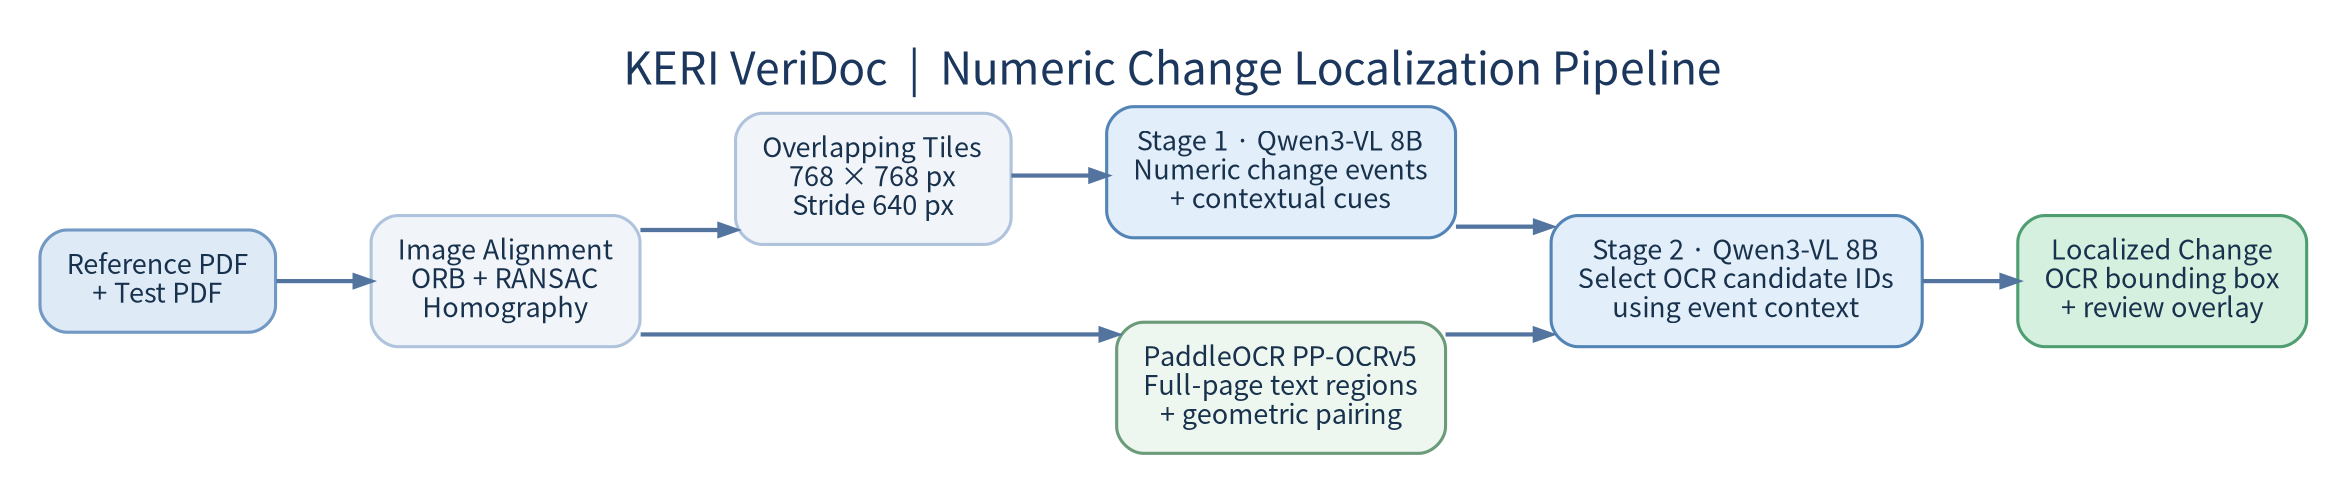
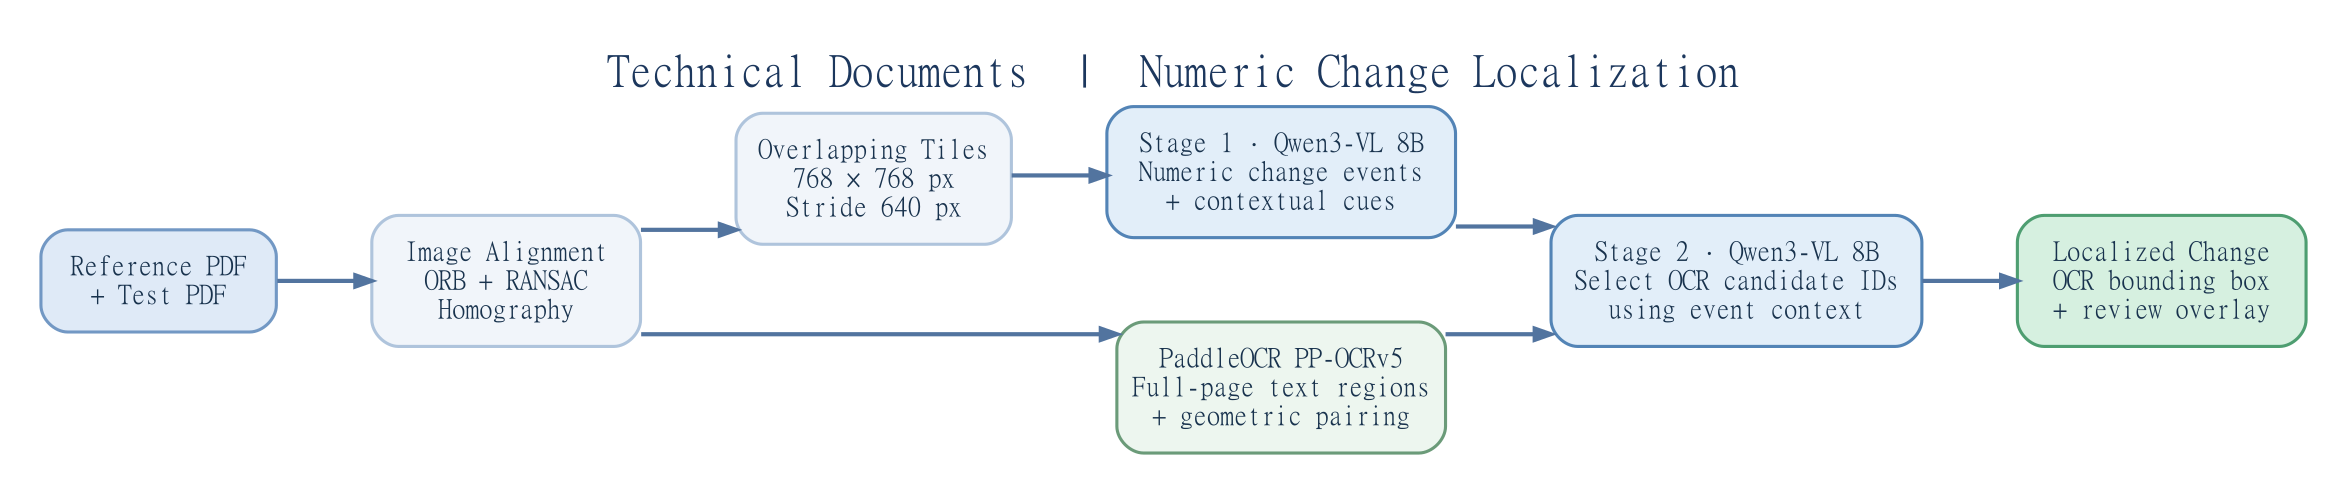
Use technical-document terminology across research documentation and diagrams

diff --git a/README.md b/README.md
@@ -1,4 +1,4 @@
-# KSMA Paper · KERI VeriDoc
+# KSMA Paper · Technical Document Analysis
 
 ### 경량 VLM 기반 기술문서 수치 변경 위치 식별
 
@@ -16,7 +16,7 @@
 
 ## Overview
 
-**KERI VeriDoc**은 기준 문서와 검사 문서를 비교해 수치 변경과 해당 문자 영역의 위치를 식별하는 연구 프로토타입입니다. 시험성적서와 같은 기술문서에서는 같은 숫자가 여러 항목에 나타나고, `100 → 120`처럼 동일한 변경쌍도 반복됩니다. 변경값을 찾는 것에 더해 **문서의 어느 항목에서 변경이 발생했는지** 연결하는 것이 핵심 과제입니다.
+**Technical Document Analysis**은 기준 문서와 검사 문서를 비교해 수치 변경과 해당 문자 영역의 위치를 식별하는 연구 프로토타입입니다. 시험성적서와 같은 기술문서에서는 같은 숫자가 여러 항목에 나타나고, `100 → 120`처럼 동일한 변경쌍도 반복됩니다. 변경값을 찾는 것에 더해 **문서의 어느 항목에서 변경이 발생했는지** 연결하는 것이 핵심 과제입니다.
 
 이 연구는 VLM의 문맥 이해와 OCR의 문자 영역 검출을 결합합니다. **1차 VLM이 변경 이벤트를 추출하고, 2차 VLM이 OCR 후보 ID를 선택**합니다. 최종 위치는 선택된 OCR Bounding Box의 좌표로 결정합니다.
 
@@ -32,7 +32,7 @@
 
 ## System Architecture
 
-![KERI VeriDoc 연구 파이프라인](assets/architecture.png)
+![Technical Document Analysis 연구 파이프라인](assets/architecture.png)
 
 **VLM은 변경 내용을 해석하고, OCR은 위치 후보를 제공하며, VLM은 문맥에 맞는 후보를 선택합니다.**
 
@@ -72,9 +72,9 @@
 
 ## Desktop Review GUI
 
-관련 **VeriDoc 데스크톱 검토 프로토타입**은 문서 선택부터 변경 영역 검토까지 연결하는 Tkinter/ttk 기반 인터페이스입니다.
+관련 **기술문서 데스크톱 검토 프로토타입**은 문서 선택부터 변경 영역 검토까지 연결하는 Tkinter/ttk 기반 인터페이스입니다.
 
-![VeriDoc 데스크톱 검토 화면 구성도](assets/gui_layout.png)
+![기술문서 데스크톱 검토 화면 구성도](assets/gui_layout.png)
 
 *GUI 레이아웃 구성도. 논문의 후보 선택 실험과 GUI의 E2E 엔진은 별도 구성입니다.*
 

diff --git a/docs/GUI.md b/docs/GUI.md
@@ -1,12 +1,12 @@
-# Desktop GUI — KERI VeriDoc Review Console
+# Desktop GUI — Technical Document Review Console
 
 ## Overview
 
-**KERI VeriDoc**의 관련 데스크톱 GUI 프로토타입은 분석 결과를 시각적으로 검토하는 데 초점을 둔 **Python Tkinter/ttk** 기반 애플리케이션입니다. 브라우저 기반 뷰어가 아니라 로컬 데스크톱 창에서 문서 선택, 결과 탐색, 비교 및 검토 작업을 수행하도록 구성했습니다.
+**기술문서 검토 GUI 프로토타입**은 분석 결과를 시각적으로 검토하는 데 초점을 둔 **Python Tkinter/ttk** 기반 애플리케이션입니다. 브라우저 기반 뷰어가 아니라 로컬 데스크톱 창에서 문서 선택, 결과 탐색, 비교 및 검토 작업을 수행하도록 구성했습니다.
 
 ![Desktop GUI layout schematic](../assets/gui_layout.png)
 
-> 위 도식은 실제 `keri_veridoc_desktop_gui_v0_10_review.py`의 화면 구성과 기능을 바탕으로 만든 **레이아웃 개념도**이며, 애플리케이션 실행 화면을 캡처한 것은 아닙니다.
+> 위 도식은 실제 데스크톱 검토 GUI의 화면 구성과 기능을 바탕으로 만든 **레이아웃 개념도**이며, 애플리케이션 실행 화면을 캡처한 것은 아닙니다.
 
 ## Workflow
 
@@ -55,4 +55,4 @@
 - **Result model:** Structured JSON artifacts and per-run result directories.
 - **Execution:** Local desktop orchestration. The related engine configuration may use a loopback Ollama service (`127.0.0.1`).
 
-**Scope distinction:** 이 GUI는 관련 VeriDoc E2E 검토 도구이며, 논문의 6쌍 합성 데이터 실험과 동일한 실행 엔진을 사용했다는 의미는 아닙니다. GitHub 포트폴리오에서는 **문서 분석 파이프라인과 검토 인터페이스라는 두 가지 엔지니어링 성과**로 각각 소개합니다.
+**Scope distinction:** 이 GUI는 관련 기술문서 E2E 검토 도구이며, 논문의 6쌍 합성 데이터 실험과 동일한 실행 엔진을 사용했다는 의미는 아닙니다. GitHub 포트폴리오에서는 **문서 분석 파이프라인과 검토 인터페이스라는 두 가지 엔지니어링 성과**로 각각 소개합니다.

diff --git a/README.en.md b/README.en.md
@@ -1,4 +1,4 @@
-# KSMA Paper · KERI VeriDoc
+# KSMA Paper · Technical Document Analysis
 
 ### VLM-Guided OCR Candidate Selection for Numeric Change Localization
 
@@ -18,7 +18,7 @@
 
 Technical documents can contain repeated values and even repeated transitions such as `100 → 120` in different fields. Finding the changed value is only part of the task: the system must associate each event with its corresponding text region.
 
-**KERI VeriDoc** separates semantic interpretation from geometric localization. A first-stage VLM extracts change events and contextual cues. OCR provides detected text regions with candidate IDs. A second-stage VLM selects the matching IDs, and the selected OCR boxes determine the final coordinates.
+**The proposed approach** separates semantic interpretation from geometric localization. A first-stage VLM extracts change events and contextual cues. OCR provides detected text regions with candidate IDs. A second-stage VLM selects the matching IDs, and the selected OCR boxes determine the final coordinates.
 
 ## Engineering Contributions
 

diff --git a/docs/ARCHITECTURE.md b/docs/ARCHITECTURE.md
@@ -88,6 +88,6 @@ Selected candidates:
 
 ## 4. Relationship to the Desktop GUI
 
-이 문서의 **OCR + VLM candidate-selection pipeline**은 학술논문의 실험 구성입니다. 별도로 구현된 **VeriDoc GUI**는 문서쌍 선택·검토·결과 탐색을 위한 데스크톱 UI이며, 기존 E2E 실행 엔진을 사용하는 관련 프로토타입입니다. 두 구성을 구별해 소개합니다.
+이 문서의 **OCR + VLM candidate-selection pipeline**은 학술논문의 실험 구성입니다. 별도로 구현된 **기술문서 검토 GUI**는 문서쌍 선택·검토·결과 탐색을 위한 데스크톱 UI이며, 기존 E2E 실행 엔진을 사용하는 관련 프로토타입입니다. 두 구성을 구별해 소개합니다.
 
 자세한 UI 구성은 [GUI.md](GUI.md)를 참고하세요.
